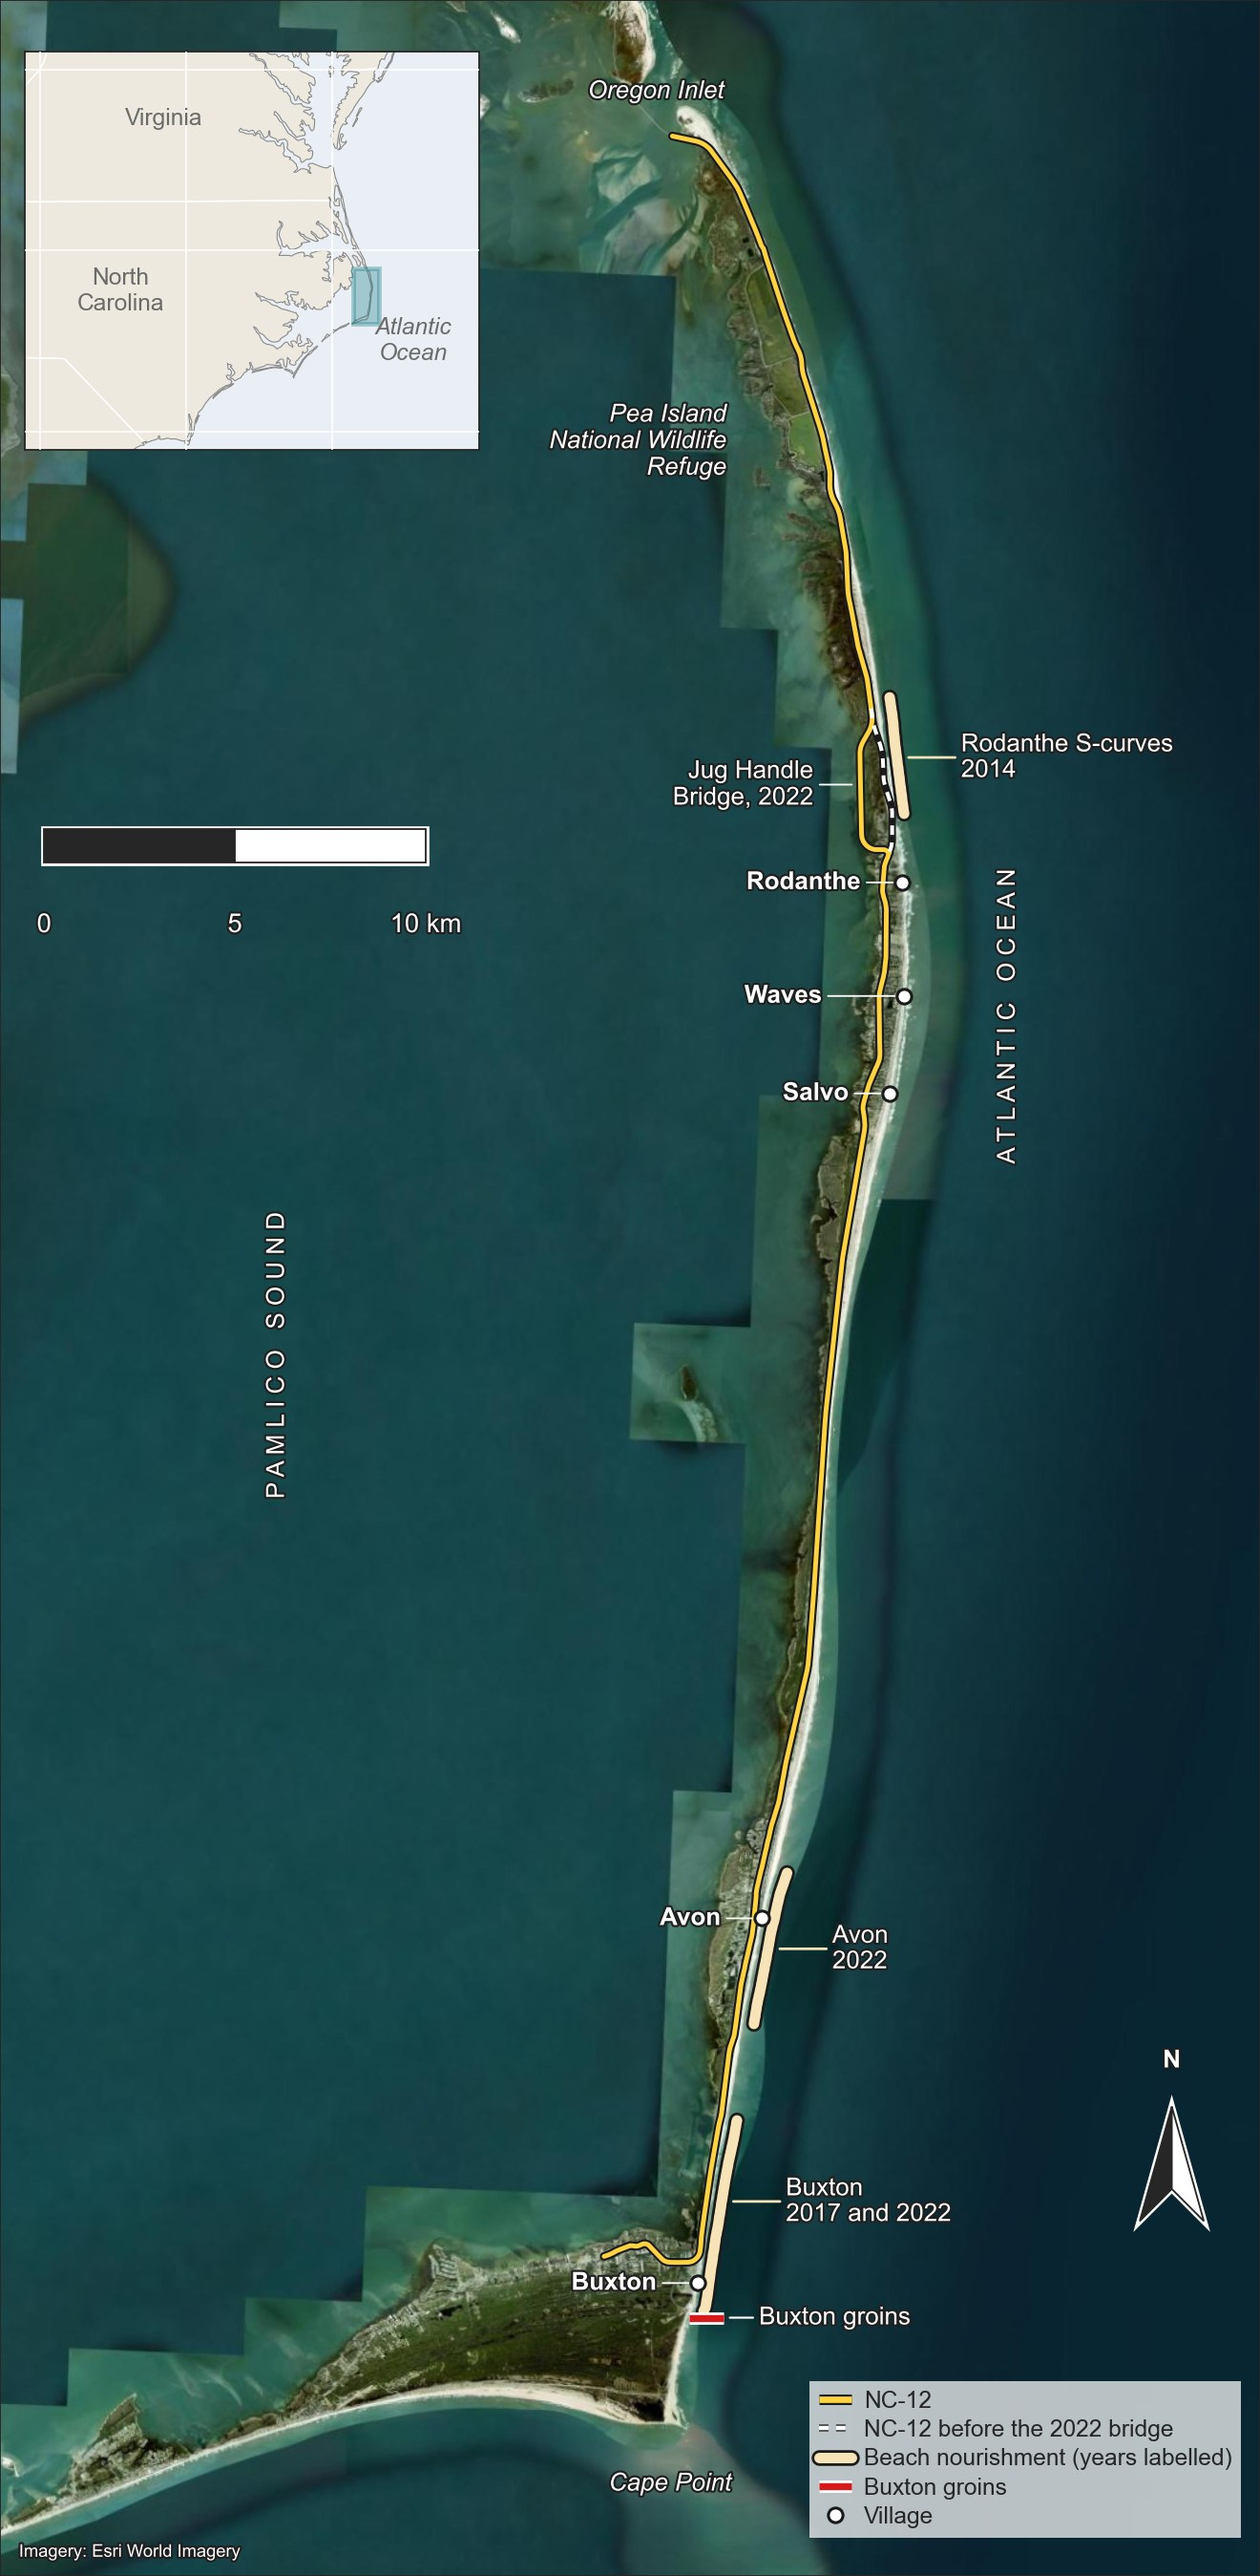
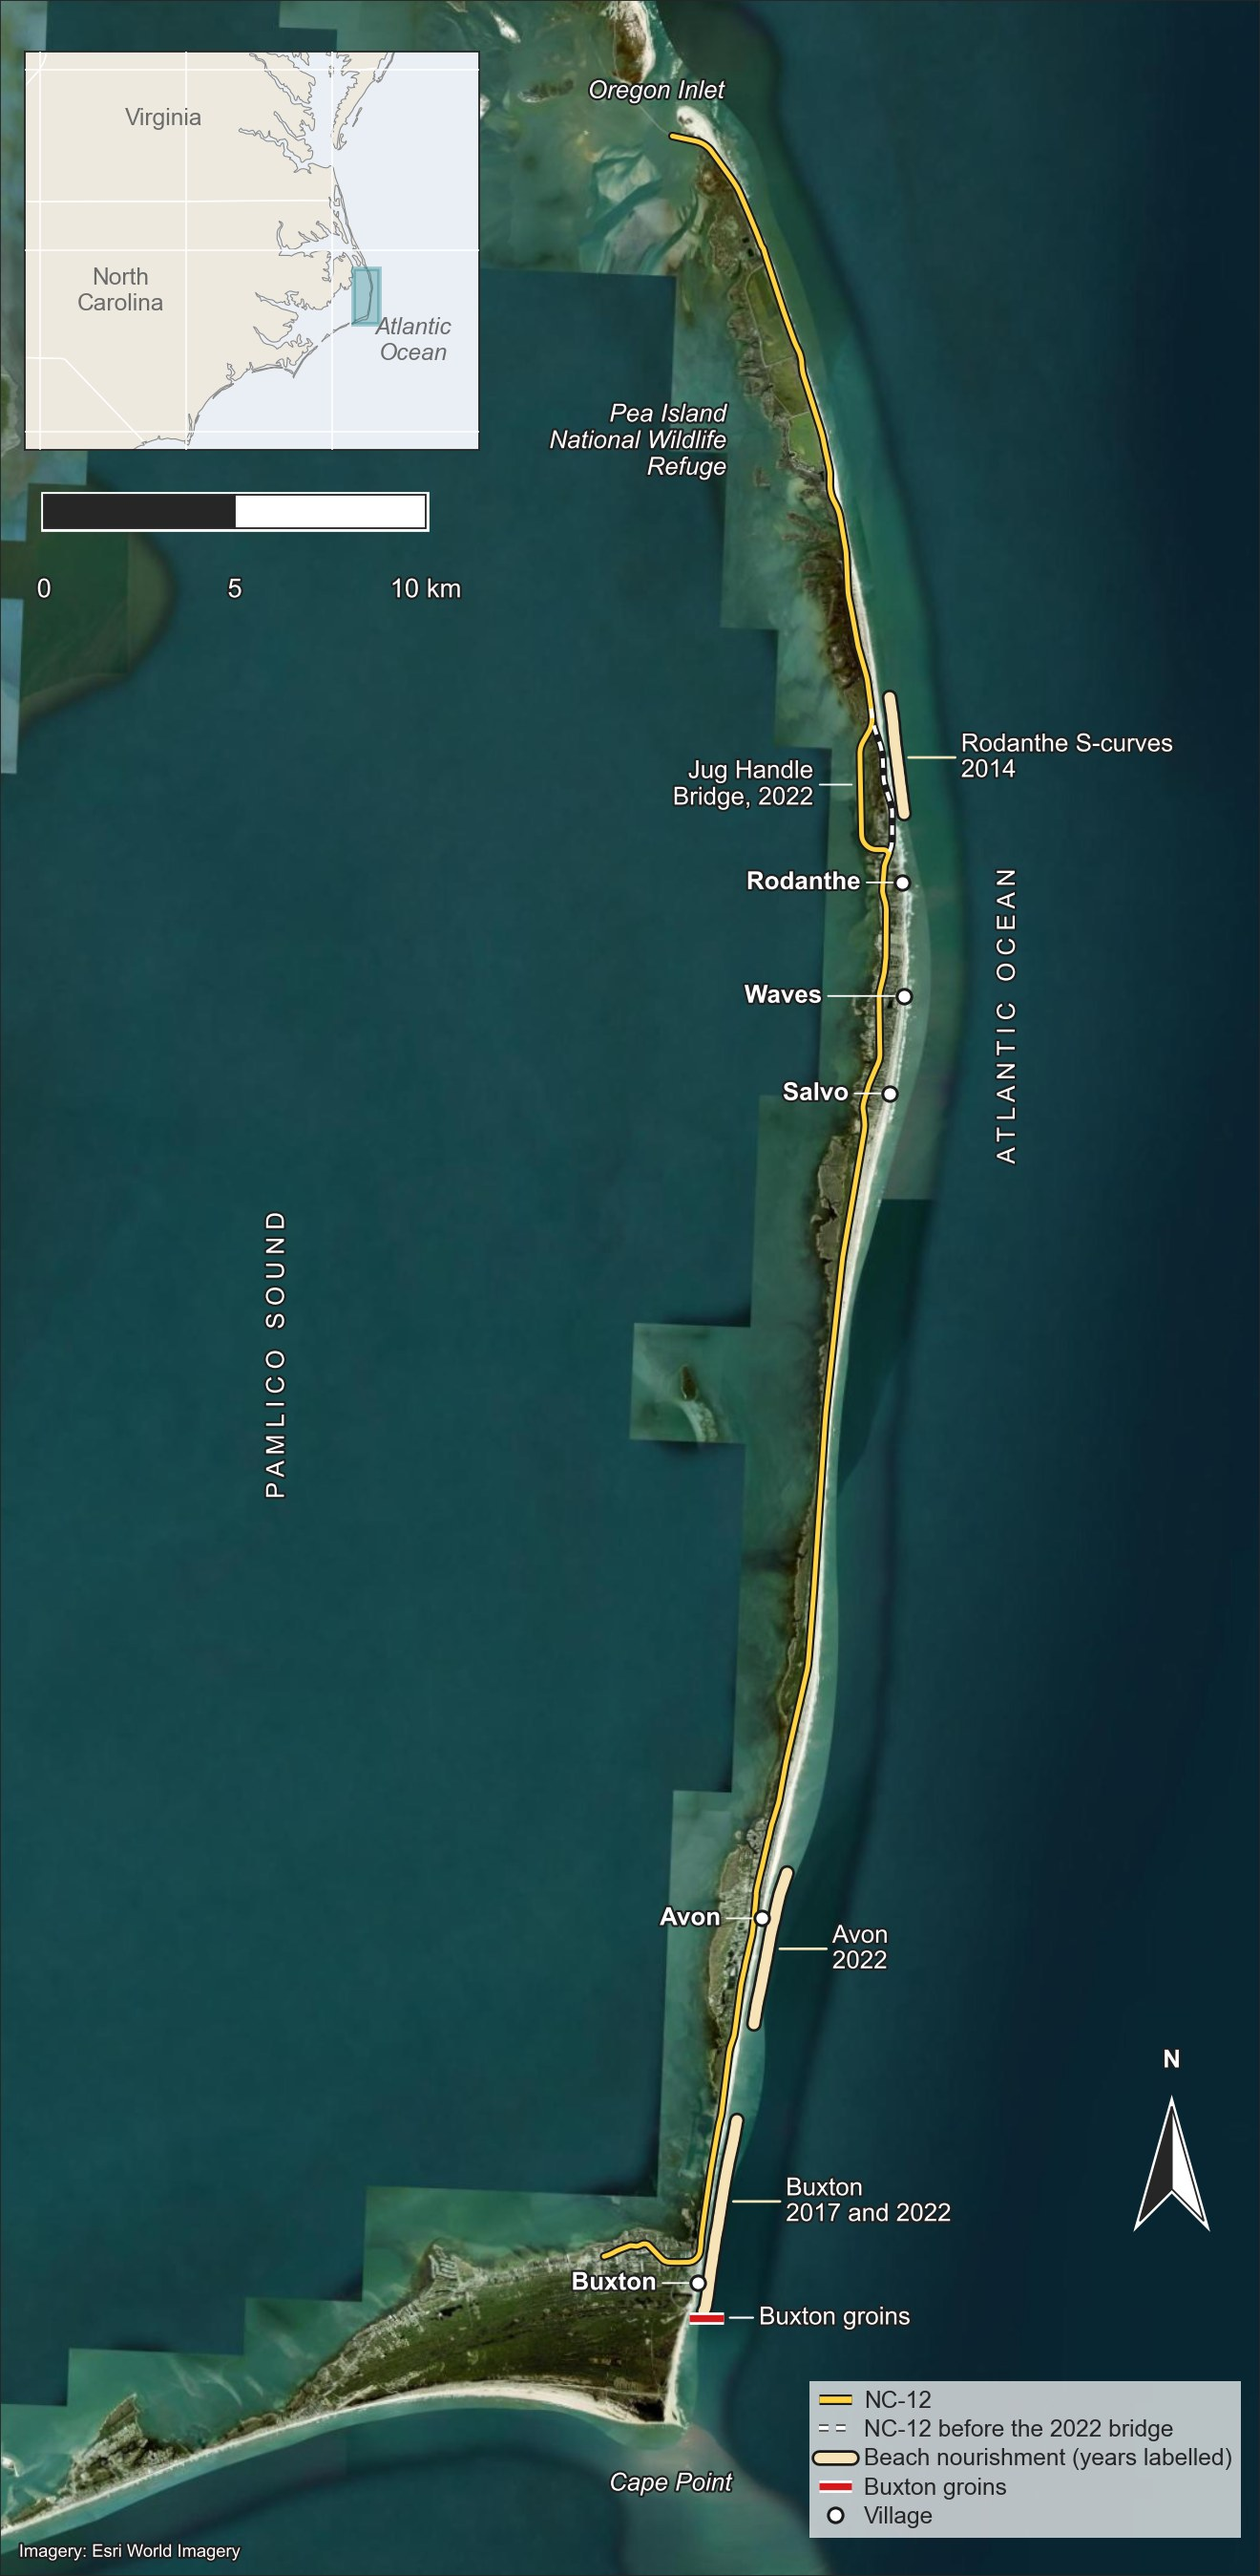
Move the study-area scale bar up under the locator

Changed region(s): [[0.0311, 0.3115, 0.3727, 0.3737], [0.0311, 0.1869, 0.3727, 0.2492]]

diff --git a/tools/hatteras_stakeholder_map.py b/tools/hatteras_stakeholder_map.py
@@ -210,7 +210,7 @@ def main() -> None:
     ax.legend(handles=handles, loc="lower right", bbox_to_anchor=(0.985, 0.015), **MAP_LEGEND)
     # scale bar under the locator (upper left), north arrow above the legend (lower right)
     on_water = dict(color="white", path_effects=HALO)
-    scale_bar_km(ax, 10_000, x=0.035, y=0.665, text_kw=on_water)
+    scale_bar_km(ax, 10_000, x=0.035, y=0.795, text_kw=on_water)
     north_dart(ax, (x0 + 0.93 * (x1 - x0), y0 + 0.16 * (y1 - y0)), arrow_m=3000, text_kw=on_water)
     ax.text(0.015, 0.006, "Imagery: Esri World Imagery",
             transform=ax.transAxes, ha="left", va="bottom",
